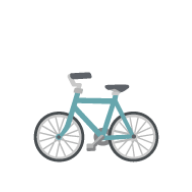
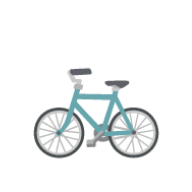
Centrar emoji en ícono PWA y bump cache v3
Eliminado margin-top que desplazaba el emoji hacia abajo.
El centrado queda a cargo del flexbox del contenedor.

https://claude.ai/code/session_01AJjfs3wFjA3d44SUoNrH45

Changed region(s): [[0.1562, 0.3438, 0.8438, 0.875]]

diff --git a/sw.js b/sw.js
@@ -1,5 +1,5 @@
 // Incrementar este número cada vez que se actualice el catálogo
-const CACHE = 'repuestos-jorge-v2';
+const CACHE = 'repuestos-jorge-v3';
 
 const PRECACHE = [
   './index.html',
